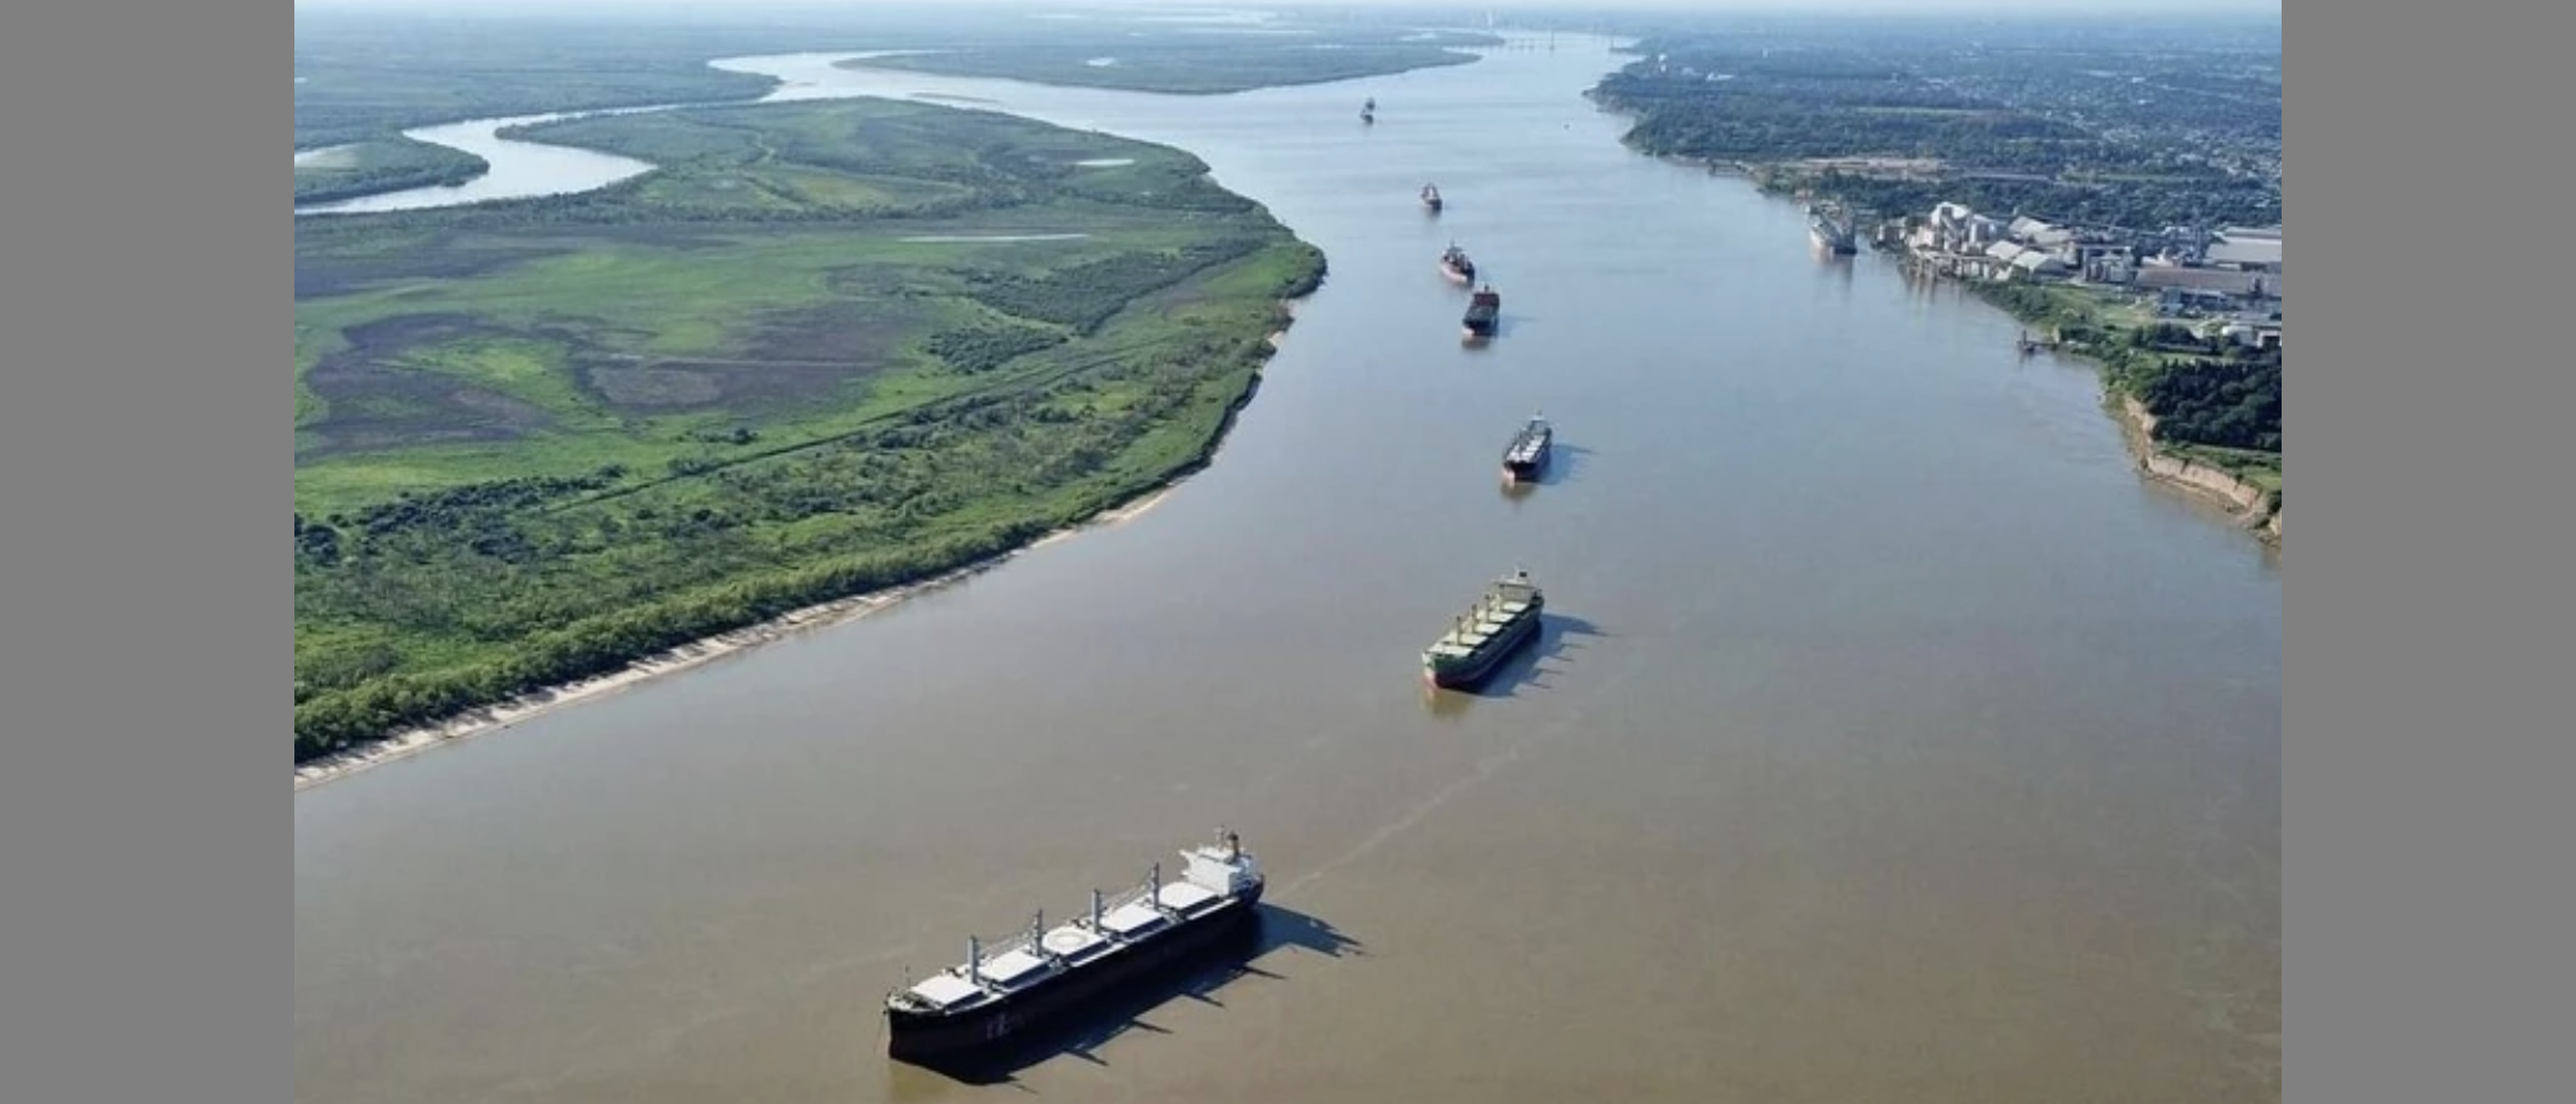
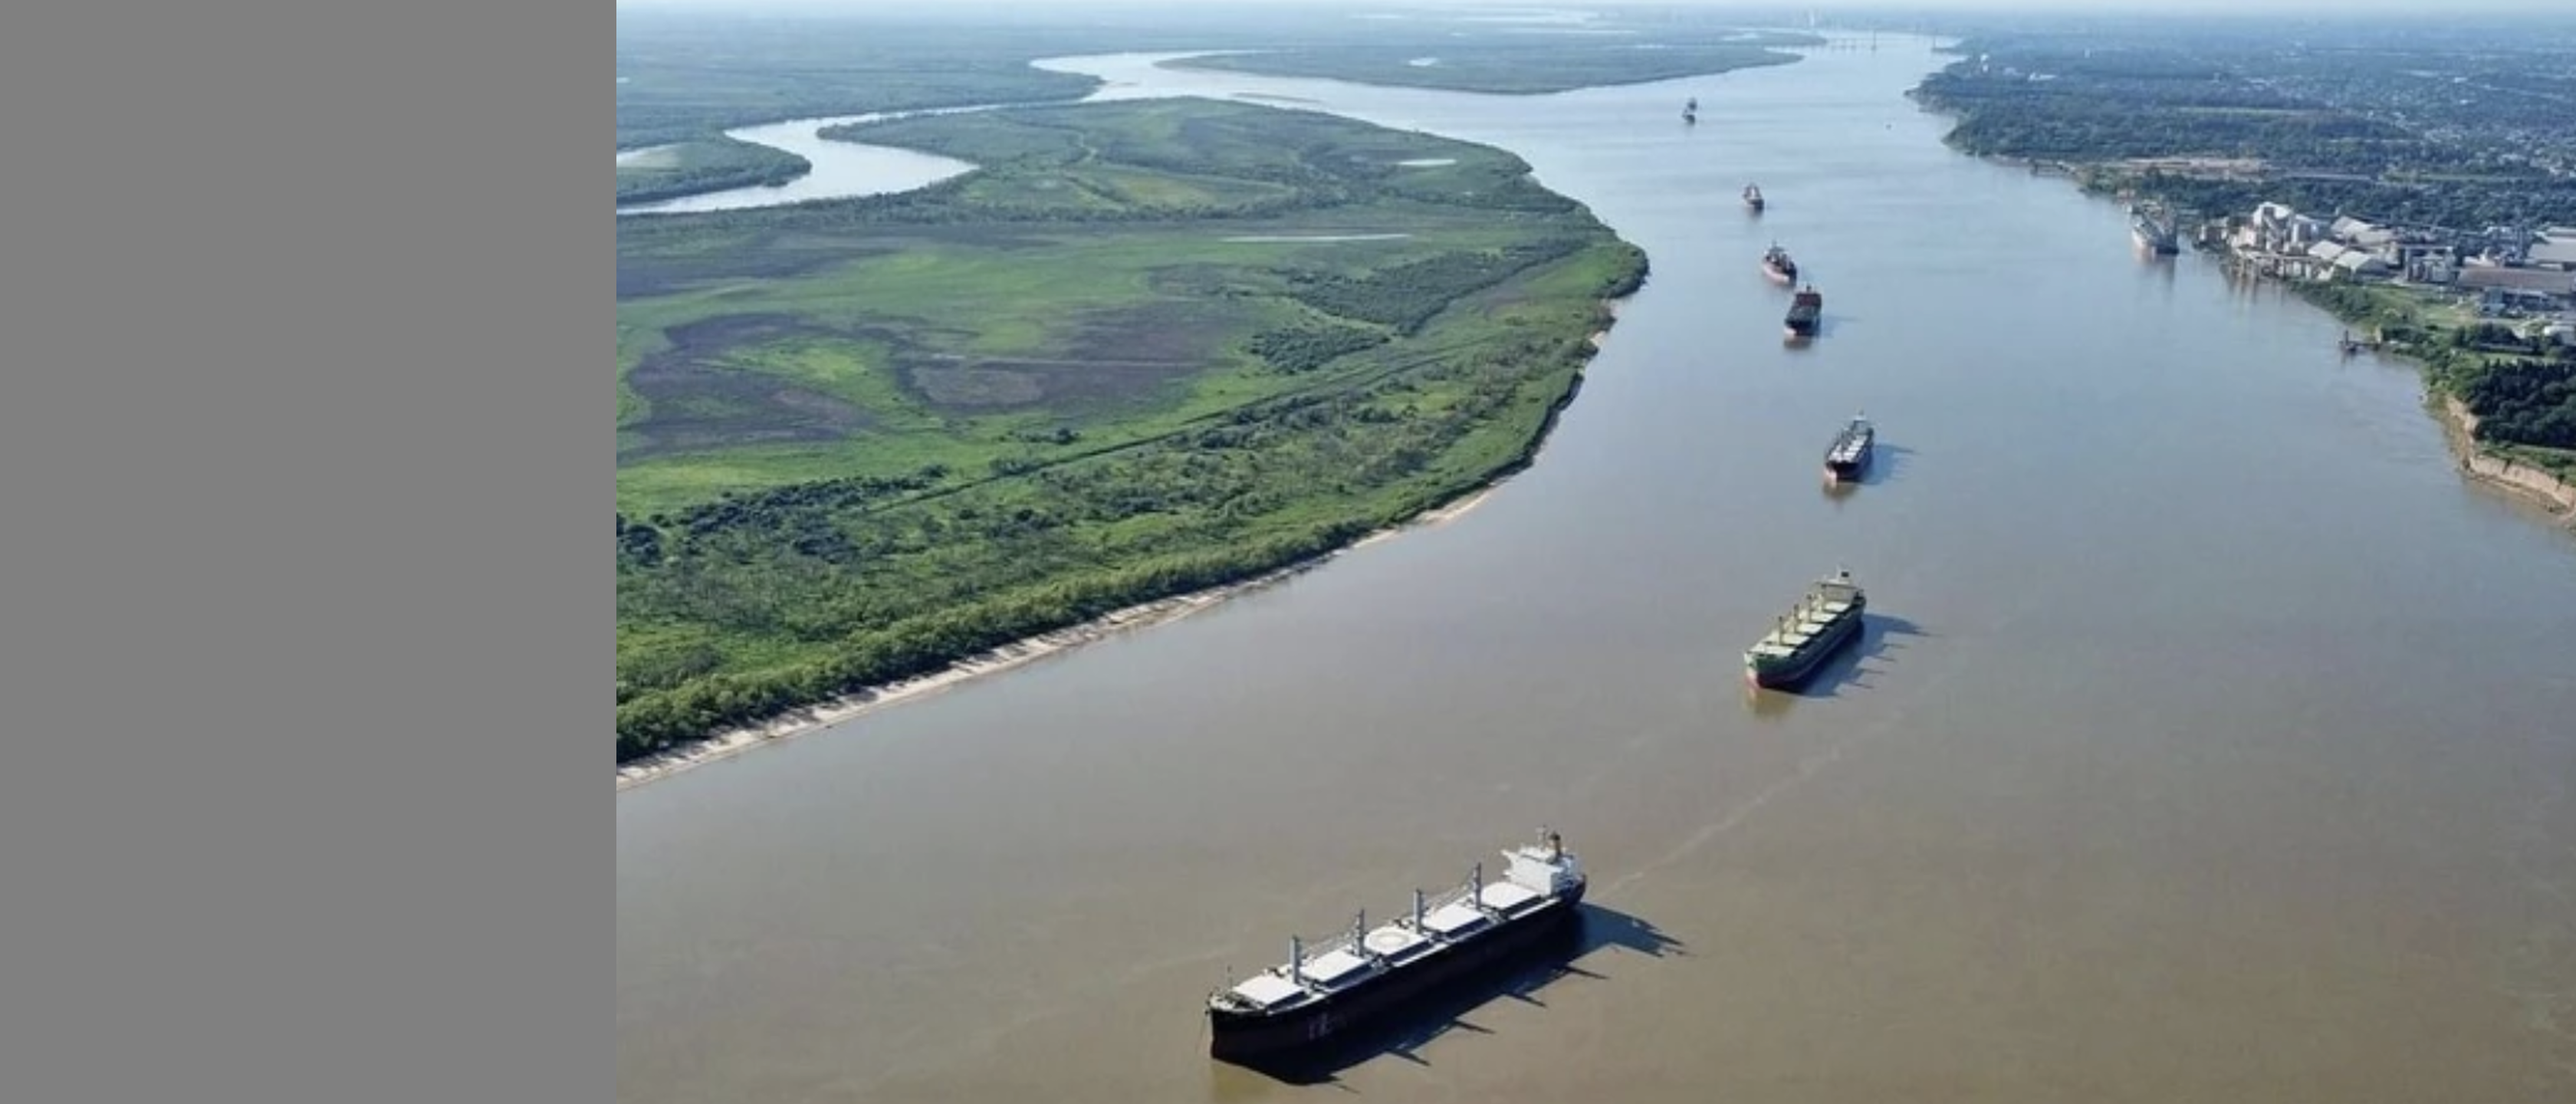
Formento: frame prompts v2 for the broadcast layout + Seedance prompts; FOR1/FOR3 refs re-placed
Claude-Session: https://claude.ai/code/session_01ETEHmT9ECK4kya3UBwrmjr

diff --git a/puma-memory/production/formento/PROMPTS_frames_GPT26.md b/puma-memory/production/formento/PROMPTS_frames_GPT26.md
@@ -1,31 +1,66 @@
-# Formento · frame prompts (GPT Image 2.6 · 21:9 · 4K · High) — one upload each: the *_REF_21x9.png
+# Formento · frames + animation (v2, Nov 13: broadcast layout)
 
-Common to all four: real news-camera footage look (long lens, natural light), NO on-screen text, tickers, logos, captions or watermarks; the placa lockup is added in post. Grey areas of the reference = extend the scene contextually. Clear air, no fog/haze.
+## Screen layout every frame must respect (renderer v25)
+- On the LED only rows 408–1031 of the 1440-high frame are seen (the middle 43%).
+- The outer ~20% on each side sits under the headline panels (placas 1–3), so it only needs to be continuous background.
+- The centre (x 37–63%) carries the placa text. Put background texture there (smoke, cliff, water), not the subject.
+- The bottom ~12% of the band (rows 955–1031) sits under the ticker (placas 1–3).
+- So the subject goes in the left or right third of the centre zone, in the upper/middle of the band.
+- No on-screen text, ticker, logos or channel bugs in the image: the broadcast graphics are added in post.
 
-## FOR1 · INTERNACIONAL · Estrecho de Ormuz  (ref: FOR1_ormuz_REF_21x9.png · client n05)
+## GPT Image 2.6 · 21:9 · 4K · High · upload only the matching *_REF_21x9.png
+
+### FOR1 · Ormuz
 Turn the attached reference into a photorealistic 21:9 news-camera frame of the Strait of Hormuz.
-COMPOSITION (locked): keep the reference exactly — camera height, horizon line, the row of anchored vessels across the middle (small blue-hulled tankers and supply ships, white superstructures, one rust-red crane), the bare rocky mountain ridge filling the background, open dark-blue water in the foreground. No zoom, crop or reframe.
-SCENE: Gulf waters at late afternoon, low hard sun from the left raking the arid brown-ochre cliffs, sharp shadows in the gullies; calm sea with fine ripples and glints; vessels at anchor with realistic scale (tankers 100–180 m), rust streaks, deck details.
-LENS & LOOK: 400 mm telephoto broadcast camera, compressed perspective, slight heat shimmer only near the waterline, crisp detail, natural contrast, documentary colour.
+COMPOSITION (locked): keep the reference exactly — horizon, the row of anchored vessels across the middle (blue-hulled tankers and supply ships, white superstructures, one rust-red crane) sitting in the vertical middle of the frame, the bare rocky ridge behind, open dark-blue water below. Extend the water contextually into the grey band at the bottom. No zoom, crop or reframe.
+SCENE: Gulf waters at late afternoon, low hard sun from the left raking the arid ochre cliffs, sharp shadows in the gullies; calm sea with fine ripples and glints; real vessel scale (100–180 m), rust streaks, deck details.
+LENS & LOOK: 400 mm telephoto broadcast camera, compressed perspective, heat shimmer only at the waterline, crisp, documentary colour. Clear air, no fog or haze.
 FIXES: no ship names, flags, funnel logos or hull lettering; no text of any kind.
 
-## FOR2 · DESAFÍOS · buque atacado  (ref: FOR2_buque_REF_21x9.png · client n06/n02)
+### FOR2 · buque atacado
 Turn the attached reference into a photorealistic 21:9 news-footage frame of a tanker hit in the Gulf of Oman.
-COMPOSITION (locked): keep the reference — the tanker's stern superstructure and bridge wings filling the frame, deck cranes and the orange lifeboat on the left, ladders and railings on the right, dark smoke rising through the middle. No zoom, crop or reframe.
-SCENE: thick black-grey smoke columns pouring up from behind the bridge, small orange fire glow at deck level, a fireboat's white water-cannon arcs spraying into the frame from the right; daylight, bright sky behind the smoke (smoke is dense and local, the air around it is clear — not fog).
-LENS & LOOK: 300 mm telephoto news camera, slightly compressed, real exposure, gritty documentary colour, fine sharp detail on steel, rust and rivets.
-FIXES: no ship name, hull lettering, flags or logos; no captions, no play button, no text.
+COMPOSITION (locked): keep the reference — the stern superstructure and bridge wings across the frame, deck crane and orange lifeboat on the left, ladders and railings on the right, a dense column of black-grey smoke rising through the centre. No zoom, crop or reframe.
+SCENE: thick smoke pouring up from behind the bridge, small orange fire glow at deck level on the left, a fireboat's white water-cannon arcs entering from the right; bright daylight sky behind the smoke (dense, local smoke, clear air around it — not fog).
+LENS & LOOK: 300 mm telephoto news camera, real exposure, gritty documentary colour, sharp steel, rust and rivets.
+FIXES: no ship name, hull lettering, flags or logos; no captions, no text.
 
-## FOR3 · DECISIONES · Hidrovía Paraguay  (ref: FOR3_hidrovia_REF_21x9.png · client n08)
+### FOR3 · Hidrovía
 Turn the attached reference into a photorealistic 21:9 aerial news frame of the Paraguay river (Hidrovía).
-COMPOSITION (locked): keep the reference — high drone view looking down the wide brown river curving away to the horizon, green wetland island on the left, wooded bank and a riverside town with port silos on the right, the line of barge convoys spaced down the centre of the river. No zoom, crop or reframe.
-SCENE: Paraguayan river in clear late-afternoon light, café-con-leche water with current lines, each convoy = a push-boat tug driving a raft of rectangular barges (fuel/grain), small white wakes; lush subtropical green, scattered lagoons.
-LENS & LOOK: drone 24 mm, 120 m altitude, crisp aerial detail, natural saturated colour, gentle warm sun, long soft shadows.
-FIXES: no text, no logos, no vessel names; extend the river, banks and sky contextually into the grey margins.
+COMPOSITION (locked): keep the reference — high drone view, the wide brown river curving from the upper right down through the frame, green wetland bank on the left, the barge convoys on the right side of the river. Extend the wetland, river bank, lagoons and sky contextually into the grey margins (left side becomes more wetland and river bank). No zoom or reframe of the existing content.
+SCENE: clear late-afternoon light, café-con-leche water with current lines, each convoy = a push-boat tug driving a raft of rectangular barges, small white wakes; lush subtropical green.
+LENS & LOOK: drone 24 mm, 120 m altitude, crisp, natural saturated colour, warm sun, long soft shadows. Clear air, no fog or haze.
+FIXES: no text, no logos, no vessel names.
 
-## FOR4 · CLARIDAD · estación Puma  (ref: FOR4_puma_REF_21x9.png · deck s08_image19)
+### FOR4 · estación Puma
 Turn the attached reference into a photorealistic 21:9 frame of a clean, modern Puma Energy service station.
-COMPOSITION (locked): keep the reference — attendant at the pumps on the left holding a nozzle, the canopy and red-green Puma sign behind, the white car on the right with a hand inserting the blue nozzle into the filler. Extend the forecourt, canopy and sky contextually into all grey areas (the grey box is just missing scene: continue the car, pump island and forecourt floor). No zoom or reframe of the existing content.
-SCENE: smiling young attendant in the Puma uniform (green cap, red-and-green polo, dark work trousers with reflective stripes), bright clean forecourt, trees and blue sky; calm, ordered, clear.
-LENS & LOOK: 35 mm, bright natural daylight, crisp, clean commercial realism.
-FIXES: remove the green light lines and the chalk tactics drawing (added in post if needed); 5 fingers per hand on their own arms; Puma Energy brand only, no other brands or text.
+COMPOSITION (locked): attendant at the pumps on the left third, canopy and red-green Puma sign in the centre background, white car on the right third with a hand inserting the blue nozzle into the filler. Extend the forecourt, car, pump island and sky contextually into all grey areas (the grey box is missing scene). No zoom or reframe of the existing content.
+SCENE: smiling young attendant in the Puma uniform (green cap, red-and-green polo, dark work trousers with reflective stripes), bright clean forecourt, trees, blue sky; calm and ordered.
+LENS & LOOK: 35 mm, bright natural daylight, crisp commercial realism.
+FIXES: remove the green light lines and the chalk drawing; 5 fingers per hand on their own arms; Puma Energy brand only, no other brands or text.
+
+## Seedance 2.5 · @image1 = approved frame (首帧) · 21:9 · 6 s · 480p draft → Topaz 3840×1648 30 fps
+Universal rules: single shot, no cuts; subject motion about 80% (slight slow motion), camera in real time and never stops; small camera moves only; key action in the middle 43% band, left/right of centre; no fog, no light FX, no text/logos/captions, no music.
+
+### FOR1
+@image1（首帧）。单镜头，6秒，21:9 新闻长焦画面，构图与首帧完全一致。
+0-6秒：400mm长焦，机位在海岸高处，轻微手持漂浮感，同时极缓慢推近（总共约5%）。锚泊的油轮随海浪轻微起伏；一艘白色小型巡逻艇从画面左侧中部低速驶入，向右划出清晰白色尾浪，停留在画面左三分之一区域；水面细碎反光闪烁，仅在水线处有轻微热浪扭曲。
+人物/物体动作约80%速度，摄影机真实速度。真实比例：油轮100–180米，巡逻艇12米。
+风格：真实新闻纪实摄影，午后硬光从左侧照亮赭色山崖，空气清澈，无雾无霾，色彩自然。无文字、无标志、无船名、无旗帜、无音乐。
+
+### FOR2
+@image1（首帧）。单镜头，6秒，21:9 新闻长焦画面，构图与首帧完全一致。
+0-6秒：300mm长焦，轻微手持呼吸感，镜头极缓慢向上微摇（约3度）跟随烟柱。浓黑灰色烟柱从舰桥后方翻滚上升，烟雾体积感强、边缘清晰；左侧甲板处小团橙色火光闪动；右侧消防船的白色水炮水柱呈抛物线喷入画面，水花在阳光下飞散。
+动作约80%速度（轻微慢动作），摄影机真实速度。烟雾只在局部，周围空气清澈，不是雾。
+风格：真实新闻纪实，自然曝光，钢铁锈迹细节清晰。无文字、无标志、无船名、无字幕、无音乐。
+
+### FOR3
+@image1（首帧）。单镜头，6秒，21:9 无人机新闻航拍，构图与首帧完全一致。
+0-6秒：无人机高度120米，平稳缓慢向前滑行并极轻微下降（总位移很小），不旋转。右侧的驳船队由推船推动沿河缓缓前行，船尾留下细白尾浪；河面水流纹理与阳光反光缓慢移动；左侧湿地草木随微风轻摆。
+物体动作约80%速度，摄影机真实速度。真实比例：每节驳船约60米。
+风格：真实新闻航拍，午后暖阳，空气清澈，无雾无霾，色彩自然饱和。无文字、无标志、无船名、无音乐。
+
+### FOR4
+@image1（首帧）。单镜头，6秒，21:9，构图与首帧完全一致。
+0-6秒：35mm，摄影机极缓慢向前推轨（约0.3米/秒），保持水平。左侧Puma服务员微笑着抬头看向车主方向并轻轻点头；右侧手将蓝色加油枪稳稳插入加油口并按下扳机；背景树叶轻摆，前场干净明亮。
+人物动作约80%速度，摄影机真实速度。手部：每只手5根手指，属于正确的手臂。
+风格：明亮自然日光，干净清晰的商业写实。只出现Puma Energy品牌，无其他文字、标志、无音乐。
